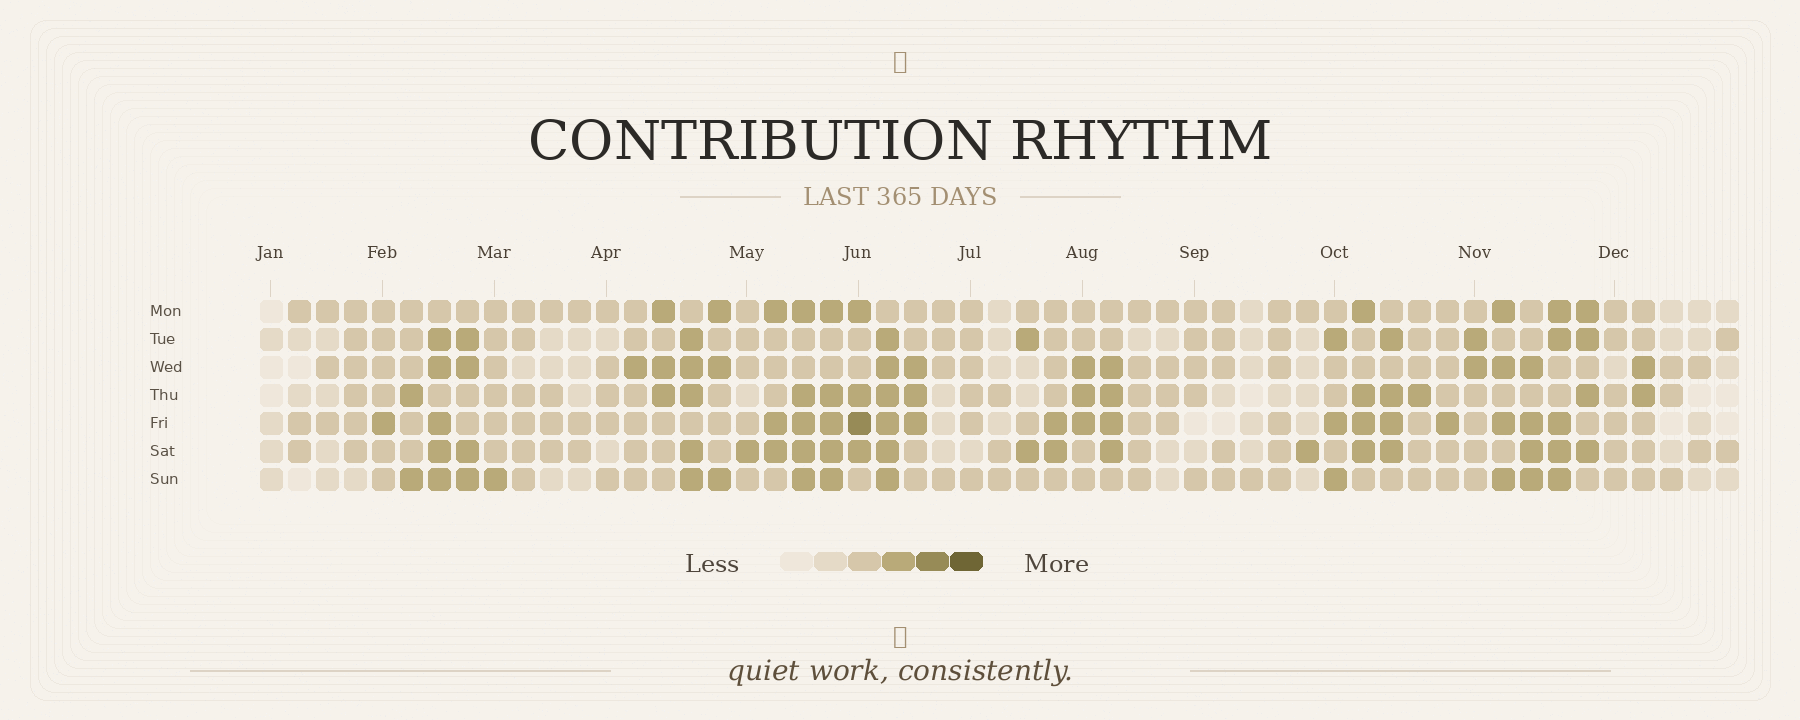
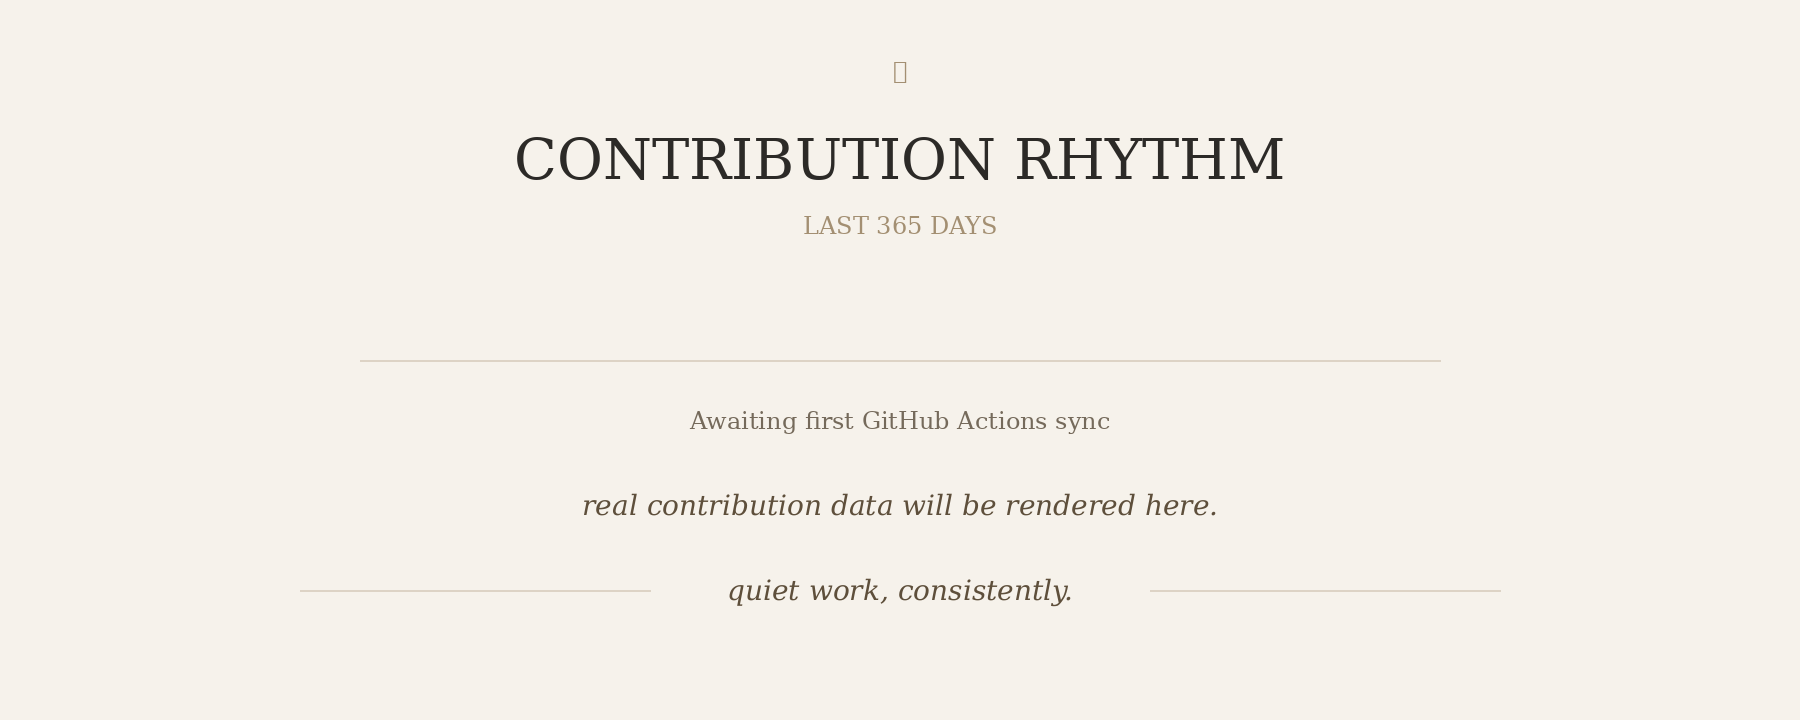
v2.2
8.18

diff --git a/scripts/generate_contribution_rhythm.py b/scripts/generate_contribution_rhythm.py
@@ -1,17 +1,20 @@
 """
-Generate a warm editorial-style contribution heatmap for the GitHub profile README.
+Generate the warm editorial-style contribution heatmap used by the profile README.
+
+The visual style is fixed here; the actual cells, dates, month labels, and intensity
+are generated from GitHub's real contribution data on every run.
 
 Usage:
-  GH_TOKEN=... python scripts/generate_contribution_rhythm.py --user takagibit18
+    GH_TOKEN=... python scripts/generate_contribution_rhythm.py --user takagibit18
 
-This writes:
-  assets/contribution-rhythm.png
+Output:
+    assets/contribution-rhythm.png
 """
 
 from __future__ import annotations
+
 import argparse
 import datetime as dt
-import math
 import os
 from pathlib import Path
 
@@ -26,6 +29,7 @@ query($login: String!, $from: DateTime!, $to: DateTime!) {
   user(login: $login) {
     contributionsCollection(from: $from, to: $to) {
       contributionCalendar {
+        totalContributions
         weeks {
           contributionDays {
             contributionCount
@@ -39,134 +43,240 @@ query($login: String!, $from: DateTime!, $to: DateTime!) {
 }
 """
 
-def font(candidates, size):
-    for name in candidates:
+PALETTE = ["#efe7db", "#e5dac7", "#d6c7aa", "#b9aa79", "#978b57", "#6f6635"]
+
+
+def load_font(candidates: list[str], size: int):
+    for candidate in candidates:
         try:
-            return ImageFont.truetype(name, size=size)
+            return ImageFont.truetype(candidate, size=size)
         except Exception:
-            pass
+            continue
     return ImageFont.load_default()
 
+
 def fetch_contributions(user: str, token: str):
-    to_date = dt.datetime.utcnow().replace(microsecond=0).isoformat() + "Z"
-    from_date = (dt.datetime.utcnow() - dt.timedelta(days=365)).replace(microsecond=0).isoformat() + "Z"
-    r = requests.post(
+    now = dt.datetime.now(dt.timezone.utc)
+    start = now - dt.timedelta(days=364)
+
+    response = requests.post(
         "https://api.github.com/graphql",
-        headers={"Authorization": f"Bearer {token}"},
-        json={"query": QUERY, "variables": {"login": user, "from": from_date, "to": to_date}},
+        headers={
+            "Authorization": f"Bearer {token}",
+            "Accept": "application/vnd.github+json",
+            "X-GitHub-Api-Version": "2022-11-28",
+        },
+        json={
+            "query": QUERY,
+            "variables": {
+                "login": user,
+                "from": start.replace(microsecond=0).isoformat().replace("+00:00", "Z"),
+                "to": now.replace(microsecond=0).isoformat().replace("+00:00", "Z"),
+            },
+        },
         timeout=30,
     )
-    r.raise_for_status()
-    payload = r.json()
-    if "errors" in payload:
-        raise RuntimeError(payload["errors"])
-    weeks = payload["data"]["user"]["contributionsCollection"]["contributionCalendar"]["weeks"]
-    # normalize to Monday-first rows
-    cols = []
-    for week in weeks:
-        days = week["contributionDays"]
-        day_map = {d["weekday"]: d["contributionCount"] for d in days}  # Sun=0 .. Sat=6
-        monday_first = [day_map.get(i % 7, 0) for i in range(1,7)] + [day_map.get(0, 0)]
-        cols.append(monday_first)
-    return cols
+    response.raise_for_status()
+    payload = response.json()
 
-def level(count, max_count):
+    if payload.get("errors"):
+        raise RuntimeError(payload["errors"])
+
+    user_data = payload.get("data", {}).get("user")
+    if not user_data:
+        raise RuntimeError(f"GitHub user not found: {user}")
+
+    calendar = user_data["contributionsCollection"]["contributionCalendar"]
+    weeks = calendar["weeks"]
+
+    # Preserve the actual date for every cell.
+    columns = []
+    for week in weeks:
+        column = [None] * 7  # Monday first
+        for day in week["contributionDays"]:
+            github_weekday = int(day["weekday"])  # Sunday=0 ... Saturday=6
+            monday_index = (github_weekday - 1) % 7
+            column[monday_index] = {
+                "date": dt.date.fromisoformat(day["date"]),
+                "count": int(day["contributionCount"]),
+            }
+        columns.append(column)
+
+    return columns, int(calendar["totalContributions"])
+
+
+def intensity_levels(columns):
+    positive_counts = sorted(
+        cell["count"]
+        for col in columns
+        for cell in col
+        if cell is not None and cell["count"] > 0
+    )
+    if not positive_counts:
+        return [1, 2, 3, 4]
+
+    def percentile(p: float) -> int:
+        idx = round((len(positive_counts) - 1) * p)
+        return positive_counts[max(0, min(idx, len(positive_counts) - 1))]
+
+    thresholds = [
+        max(1, percentile(0.25)),
+        max(1, percentile(0.50)),
+        max(1, percentile(0.75)),
+        max(1, percentile(0.90)),
+    ]
+
+    # Ensure strict non-decreasing thresholds even on sparse calendars.
+    for i in range(1, len(thresholds)):
+        thresholds[i] = max(thresholds[i], thresholds[i - 1])
+    return thresholds
+
+
+def level_for_count(count: int, thresholds: list[int]) -> int:
     if count <= 0:
         return 0
-    steps = [0.08, 0.22, 0.42, 0.68, 1.0]
-    ratio = count / max(max_count, 1)
-    for i, s in enumerate(steps, start=1):
-        if ratio <= s:
-            return i
+    if count <= thresholds[0]:
+        return 1
+    if count <= thresholds[1]:
+        return 2
+    if count <= thresholds[2]:
+        return 3
+    if count <= thresholds[3]:
+        return 4
     return 5
 
-def render(cols):
-    W, H = 1800, 720
-    img = Image.new("RGB", (W, H), "#f6f2eb")
-    draw = ImageDraw.Draw(img)
 
-    title_font = font([
+def month_markers(columns):
+    """Return (column_index, short_month, year) where a new month begins."""
+    markers = []
+    previous_month = None
+
+    for col_idx, col in enumerate(columns):
+        dated_cells = [cell for cell in col if cell is not None]
+        if not dated_cells:
+            continue
+
+        # Choose the earliest real date present in the week.
+        first_date = min(cell["date"] for cell in dated_cells)
+        month_key = (first_date.year, first_date.month)
+
+        if month_key != previous_month:
+            markers.append((col_idx, first_date.strftime("%b"), first_date.year))
+            previous_month = month_key
+
+    # Avoid crowded labels when a month begins in consecutive very narrow positions.
+    filtered = []
+    last_idx = -99
+    for marker in markers:
+        if marker[0] - last_idx >= 3:
+            filtered.append(marker)
+            last_idx = marker[0]
+    return filtered
+
+
+def render(columns, total_contributions: int, user: str):
+    W, H = 1800, 720
+    image = Image.new("RGB", (W, H), "#f6f2eb")
+    draw = ImageDraw.Draw(image)
+
+    title_font = load_font([
         "/usr/share/fonts/truetype/dejavu/DejaVuSerif.ttf",
-        "/usr/share/fonts/truetype/liberation2/LiberationSerif-Regular.ttf"], 54)
-    subtitle_font = font([
+        "/usr/share/fonts/truetype/liberation2/LiberationSerif-Regular.ttf",
+    ], 54)
+    subtitle_font = load_font([
         "/usr/share/fonts/truetype/dejavu/DejaVuSerif.ttf",
-        "/usr/share/fonts/truetype/liberation2/LiberationSerif-Regular.ttf"], 24)
-    month_font = font([
+        "/usr/share/fonts/truetype/liberation2/LiberationSerif-Regular.ttf",
+    ], 24)
+    month_font = load_font([
         "/usr/share/fonts/truetype/dejavu/DejaVuSerif.ttf",
-        "/usr/share/fonts/truetype/liberation2/LiberationSerif-Regular.ttf"], 16)
-    small_font = font([
+        "/usr/share/fonts/truetype/liberation2/LiberationSerif-Regular.ttf",
+    ], 16)
+    small_font = load_font([
         "/usr/share/fonts/truetype/dejavu/DejaVuSans.ttf",
-        "/usr/share/fonts/truetype/liberation2/LiberationSans-Regular.ttf"], 15)
-    caption_font = font([
+        "/usr/share/fonts/truetype/liberation2/LiberationSans-Regular.ttf",
+    ], 15)
+    caption_font = load_font([
         "/usr/share/fonts/truetype/dejavu/DejaVuSerif-Italic.ttf",
-        "/usr/share/fonts/truetype/liberation2/LiberationSerif-Italic.ttf"], 28)
+        "/usr/share/fonts/truetype/liberation2/LiberationSerif-Italic.ttf",
+    ], 28)
 
     ink = "#2c2a27"
     muted = "#a38f72"
     line = "#ddd3c5"
-    palette = ["#efe7db", "#e5dac7", "#d6c7aa", "#b9aa79", "#978b57", "#6f6635"]
 
-    draw.text((W//2, 60), "✦", font=subtitle_font, fill=muted, anchor="mm")
-    draw.text((W//2, 140), "CONTRIBUTION RHYTHM", font=title_font, fill=ink, anchor="mm")
-    draw.line((W//2-220, 196, W//2-120, 196), fill=line, width=2)
-    draw.line((W//2+120, 196, W//2+220, 196), fill=line, width=2)
-    draw.text((W//2, 196), "LAST 365 DAYS", font=subtitle_font, fill=muted, anchor="mm")
+    draw.text((W // 2, 60), "✦", font=subtitle_font, fill=muted, anchor="mm")
+    draw.text((W // 2, 140), "CONTRIBUTION RHYTHM", font=title_font, fill=ink, anchor="mm")
+    draw.line((W // 2 - 220, 196, W // 2 - 120, 196), fill=line, width=2)
+    draw.line((W // 2 + 120, 196, W // 2 + 220, 196), fill=line, width=2)
+    draw.text((W // 2, 196), "LAST 365 DAYS", font=subtitle_font, fill=muted, anchor="mm")
 
-    grid_left = 260
+    grid_left = 250
     grid_top = 300
     cell = 22
     gap = 6
     rows = 7
-    grid_width = len(cols)*cell + (len(cols)-1)*gap
-    grid_height = rows*cell + (rows-1)*gap
+    grid_height = rows * cell + (rows - 1) * gap
 
-    days = ["Mon","Tue","Wed","Thu","Fri","Sat","Sun"]
-    for i, d in enumerate(days):
-        y = grid_top + i*(cell+gap) + cell/2
-        draw.text((150, y), d, font=small_font, fill="#5a5145", anchor="lm")
+    weekdays = ["Mon", "Tue", "Wed", "Thu", "Fri", "Sat", "Sun"]
+    for row, name in enumerate(weekdays):
+        y = grid_top + row * (cell + gap) + cell / 2
+        draw.text((145, y), name, font=small_font, fill="#5a5145", anchor="lm")
 
-    month_names = ["Jan","Feb","Mar","Apr","May","Jun","Jul","Aug","Sep","Oct","Nov","Dec"]
-    month_positions = [0, 4, 8, 12, 17, 21, 25, 29, 33, 38, 43, 48]
-    for m, pos in zip(month_names, month_positions):
-        x = grid_left + pos*(cell+gap) + 10
-        draw.text((x, grid_top-48), m, font=month_font, fill="#4b4135", anchor="mm")
-        draw.line((x, grid_top-20, x, grid_top-4), fill=line, width=1)
+    for col_idx, label, year in month_markers(columns):
+        x = grid_left + col_idx * (cell + gap) + cell / 2
+        draw.text((x, grid_top - 48), label, font=month_font, fill="#4b4135", anchor="mm")
+        draw.line((x, grid_top - 20, x, grid_top - 4), fill=line, width=1)
 
-    max_count = max(max(col) for col in cols) if cols else 1
-    for c, col in enumerate(cols):
-        for r, count in enumerate(col):
-            x0 = grid_left + c*(cell+gap)
-            y0 = grid_top + r*(cell+gap)
+    thresholds = intensity_levels(columns)
+    for col_idx, col in enumerate(columns):
+        for row, cell_data in enumerate(col):
+            if cell_data is None:
+                continue
+            x0 = grid_left + col_idx * (cell + gap)
+            y0 = grid_top + row * (cell + gap)
             x1 = x0 + cell
             y1 = y0 + cell
-            color = palette[level(count, max_count)]
+            color = PALETTE[level_for_count(cell_data["count"], thresholds)]
             draw.rounded_rectangle((x0, y0, x1, y1), radius=5, fill=color)
 
     legend_y = grid_top + grid_height + 62
-    legend_x = W//2 - 120
-    draw.text((legend_x-40, legend_y+11), "Less", font=subtitle_font, fill="#4f463c", anchor="rm")
-    for i, color in enumerate(palette):
-        x = legend_x + i*(cell+12)
-        draw.rounded_rectangle((x, legend_y, x+cell+10, legend_y+18), radius=6, fill=color)
-    draw.text((legend_x + 6*(cell+12) + 40, legend_y+11), "More", font=subtitle_font, fill="#4f463c", anchor="lm")
+    legend_x = W // 2 - 135
+    draw.text((legend_x - 42, legend_y + 10), "Less", font=subtitle_font, fill="#4f463c", anchor="rm")
+    for i, color in enumerate(PALETTE):
+        x = legend_x + i * (cell + 12)
+        draw.rounded_rectangle((x, legend_y, x + cell + 10, legend_y + 18), radius=6, fill=color)
+    draw.text((legend_x + 6 * (cell + 12) + 35, legend_y + 10), "More", font=subtitle_font, fill="#4f463c", anchor="lm")
 
-    cap_y = legend_y + 118
-    draw.line((190, cap_y, 610, cap_y), fill=line, width=2)
-    draw.line((1190, cap_y, 1610, cap_y), fill=line, width=2)
-    draw.text((W//2, cap_y), "quiet work, consistently.", font=caption_font, fill="#5e4f3b", anchor="mm")
-    draw.text((W//2, cap_y-35), "✦", font=subtitle_font, fill=muted, anchor="mm")
-    return img
+    # Real aggregate metadata, also regenerated daily.
+    draw.text(
+        (W // 2, legend_y + 58),
+        f"{total_contributions:,} contributions · @{user}",
+        font=small_font,
+        fill="#8c7b63",
+        anchor="mm",
+    )
+
+    caption_y = legend_y + 122
+    draw.line((190, caption_y, 610, caption_y), fill=line, width=2)
+    draw.line((1190, caption_y, 1610, caption_y), fill=line, width=2)
+    draw.text((W // 2, caption_y), "quiet work, consistently.", font=caption_font, fill="#5e4f3b", anchor="mm")
+
+    return image
+
 
 def main():
-    ap = argparse.ArgumentParser()
-    ap.add_argument("--user", required=True)
-    args = ap.parse_args()
+    parser = argparse.ArgumentParser()
+    parser.add_argument("--user", required=True)
+    args = parser.parse_args()
+
     token = os.environ["GH_TOKEN"]
-    cols = fetch_contributions(args.user, token)
-    img = render(cols)
+    columns, total = fetch_contributions(args.user, token)
+    image = render(columns, total, args.user)
+
     ASSET_PATH.parent.mkdir(parents=True, exist_ok=True)
-    img.save(ASSET_PATH, quality=95)
+    image.save(ASSET_PATH, format="PNG", optimize=True)
     print(f"Wrote {ASSET_PATH}")
+
 
 if __name__ == "__main__":
     main()

diff --git a/DEPLOY.md b/DEPLOY.md
@@ -1,0 +1,7 @@
+# Deploy
+
+Upload the contents of this folder to the root of `takagibit18/takagibit18`.
+
+After committing, open **Actions → Update contribution rhythm → Run workflow** once.
+The placeholder `assets/contribution-rhythm.png` will be replaced with a render based on
+your real GitHub contribution data. After that, the scheduled workflow refreshes it daily.
